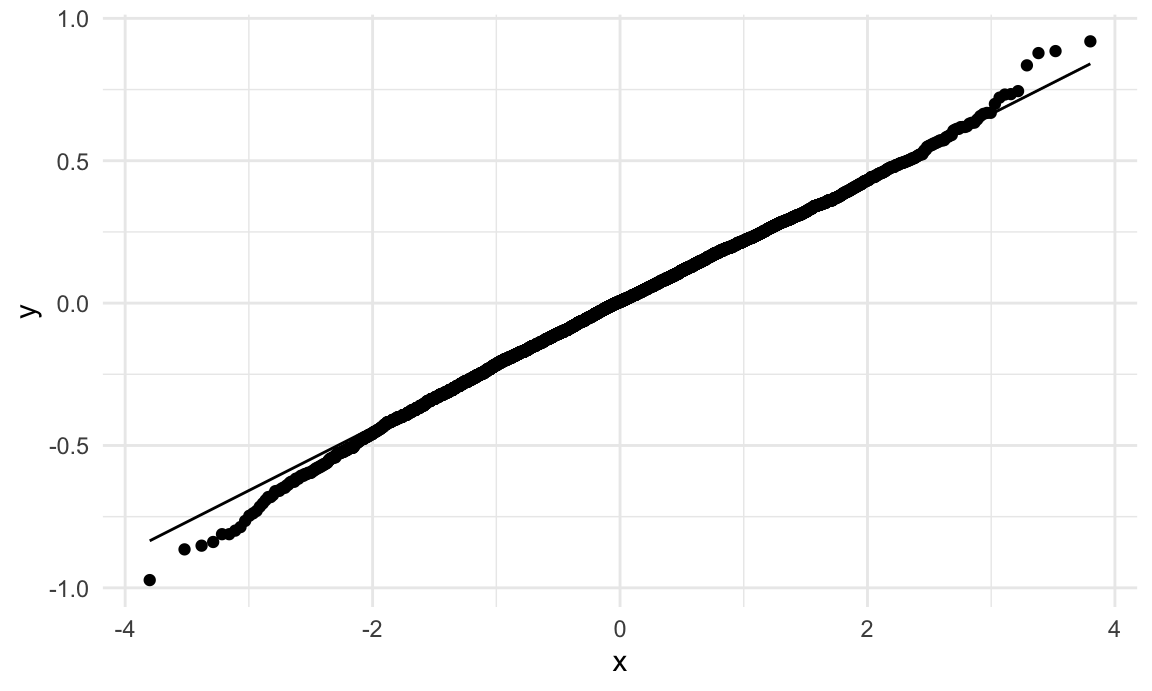
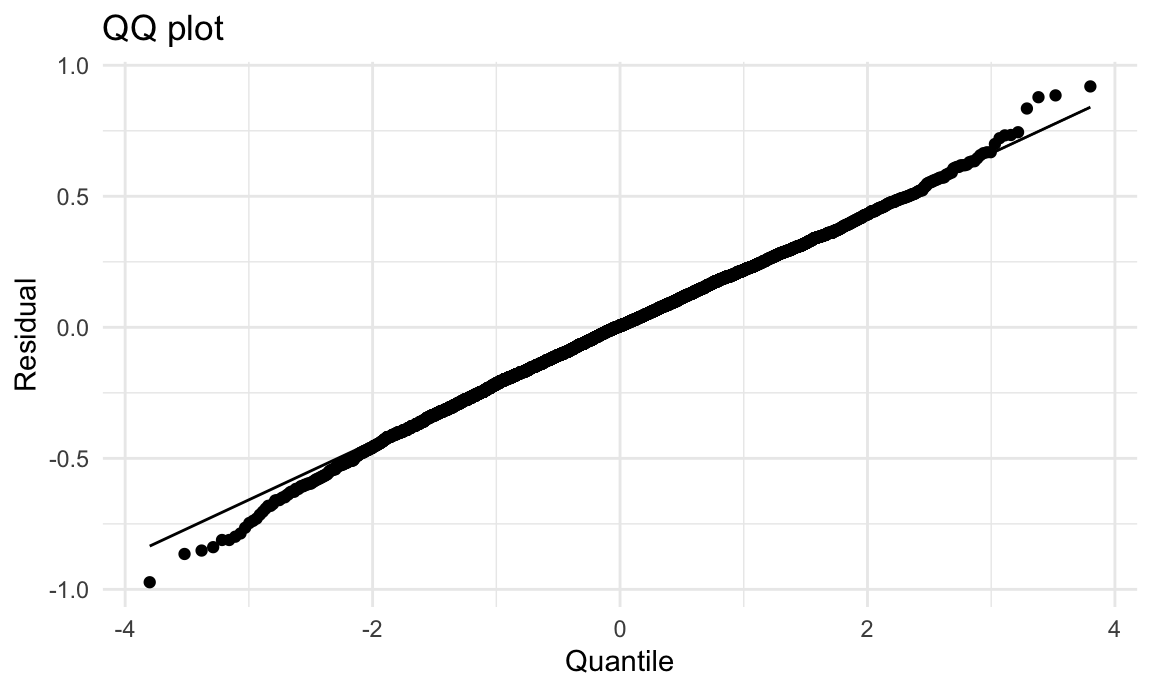
add labels to qq plots

diff --git a/model.html b/model.html
@@ -1072,7 +1072,8 @@ fit_1 |&gt;
   modelr::add_residuals(fit_1) |&gt; 
   ggplot(aes(sample = resid)) +
   stat_qq() +
-  stat_qq_line()</code></pre>
+  stat_qq_line() +
+  labs(title = &quot;QQ plot&quot;, x = &quot;Quantile&quot;, y = &quot;Residual&quot;)</code></pre>
 <p><img src="model_files/figure-html/unnamed-chunk-7-1.png" width="90%" /></p>
 <ul>
 <li>We can see that cotinine is <strong>significantly
@@ -1290,7 +1291,8 @@ fit_2 |&gt;
   modelr::add_residuals(fit_2) |&gt; 
   ggplot(aes(sample = resid)) +
   stat_qq() +
-  stat_qq_line()</code></pre>
+  stat_qq_line() +
+  labs(title = &quot;QQ plot&quot;, x = &quot;Quantile&quot;, y = &quot;Residual&quot;)</code></pre>
 <p><img src="model_files/figure-html/unnamed-chunk-9-1.png" width="90%" /></p>
 <ul>
 <li>We can see that physical_activity is <strong>not significantly
@@ -1516,7 +1518,8 @@ fit_3 |&gt;
   modelr::add_residuals(fit_3) |&gt; 
   ggplot(aes(sample = resid)) +
   stat_qq() +
-  stat_qq_line()</code></pre>
+  stat_qq_line() +
+  labs(title = &quot;QQ plot&quot;, x = &quot;Quantile&quot;, y = &quot;Residual&quot;)</code></pre>
 <p><img src="model_files/figure-html/unnamed-chunk-11-1.png" width="90%" /></p>
 <ul>
 <li>We can see that alcohol_use_cat is <strong>significantly
